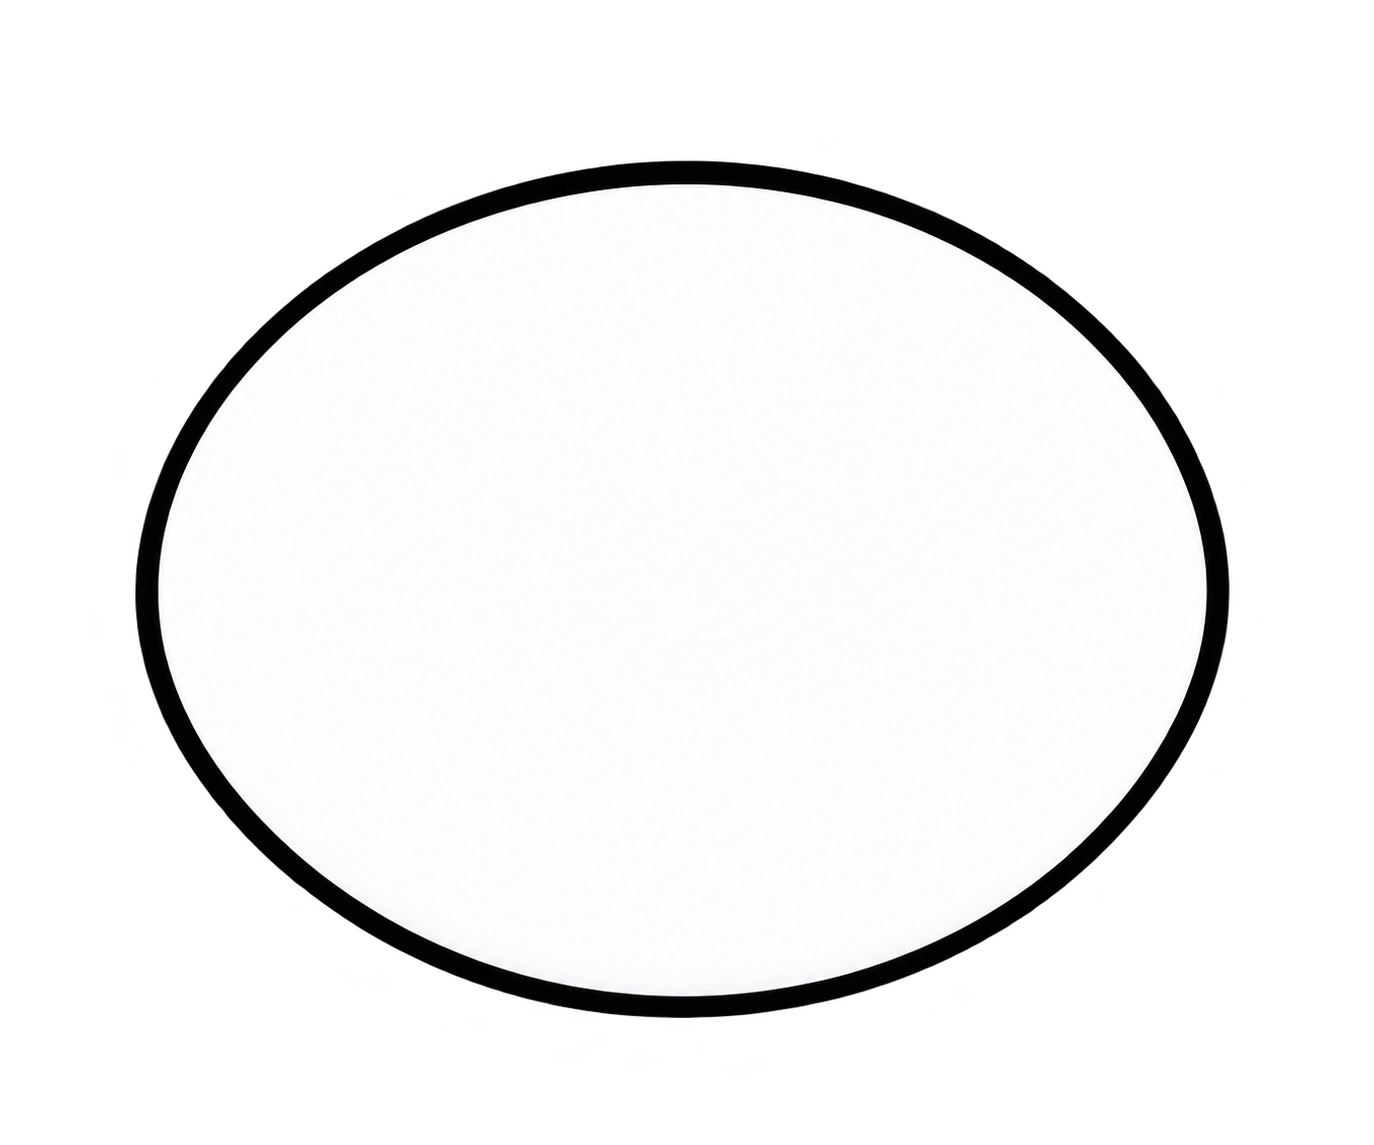
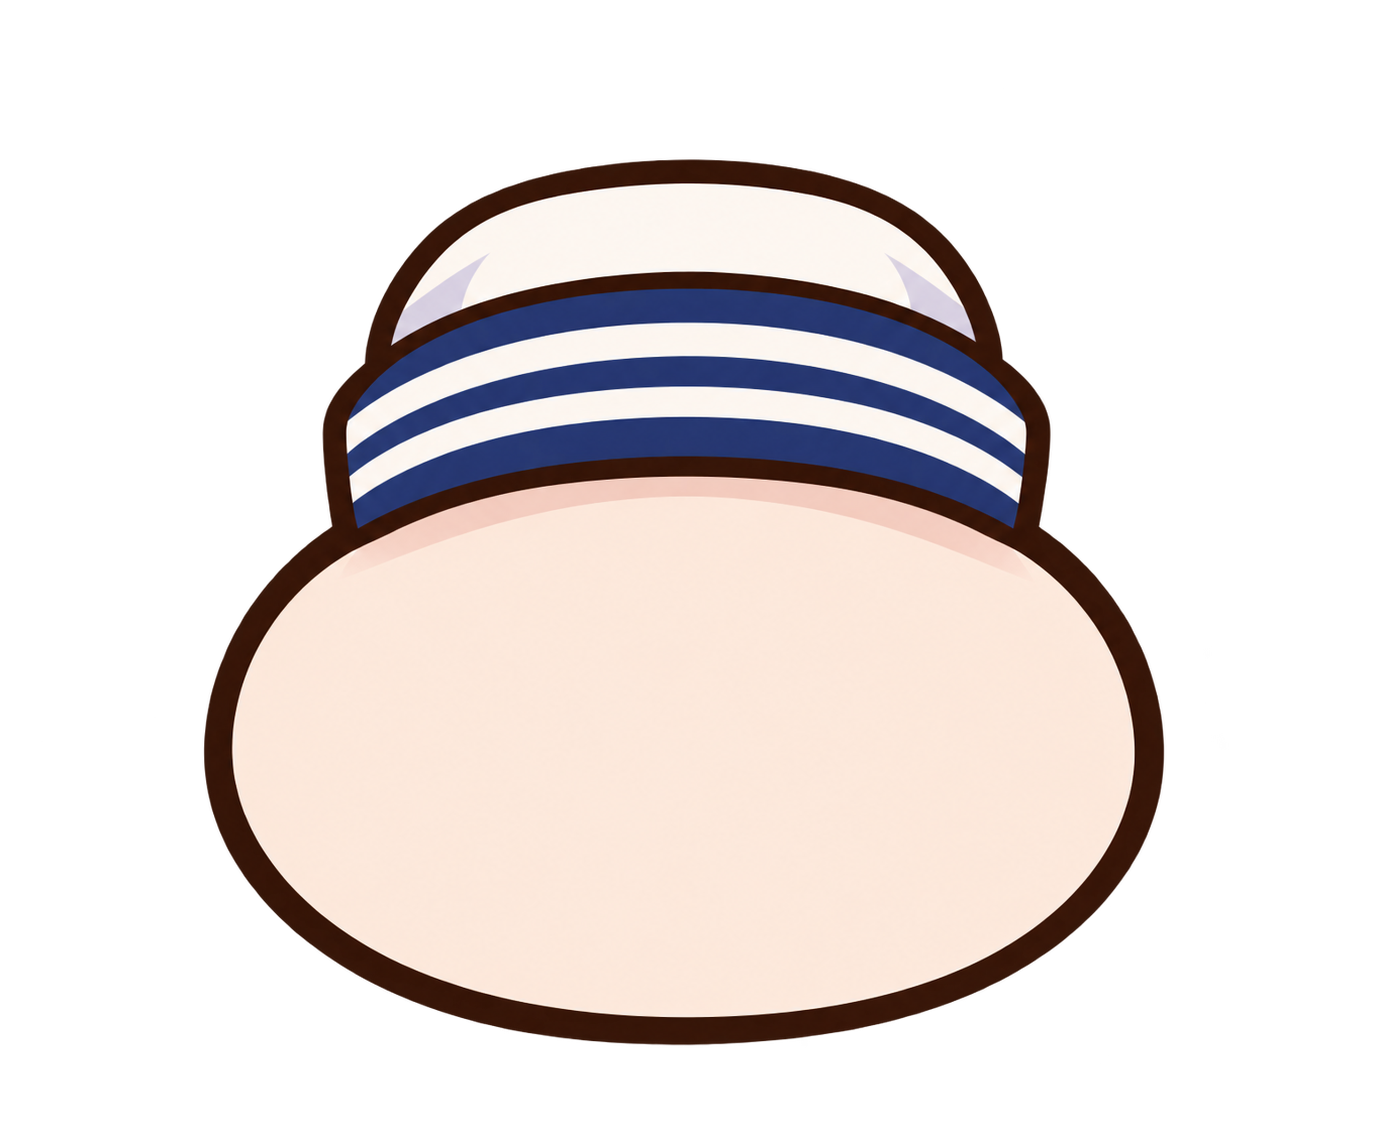
art: add character-specific hand sprites

diff --git a/docs/character-hands.md b/docs/character-hands.md
@@ -1,0 +1,97 @@
+# 角色配套手部
+
+日期：2026-11-03。按用户要求，根据六个角色各自的服装、配色和描线风格制作独立手部。三套换装原先共用的白色椭圆彩手已替换，另外三款新增配套左右手。身体和彩色手部分别保存，原线稿保留。
+
+## 素材
+
+| 角色及身体参考 | 手部设计 | 独立文件 |
+| --- | --- | --- |
+| [基础女仆鱼](../assets/concepts/fish-maid-colored.png) | 奶油肤色圆手、白色扇贝荷叶边、青蓝束带和短蓝袖布，粗深棕描边 | [左手](../assets/concepts/fish-maid-left-hand-colored.png)、[右手](../assets/concepts/fish-maid-right-hand-colored.png) |
+| [水手装](../assets/characters/sailor/body-colored.png) | 奶油肤色圆手、海军蓝双白条袖口和短白袖布 | [左手](../assets/characters/sailor/left-hand-colored.png)、[右手](../assets/characters/sailor/right-hand-colored.png) |
+| [睡衣装](../assets/characters/pajamas/body-colored.png) | 奶油肤色圆手、淡紫蓝宽竖条纹袖口和象牙白镶边 | [左手](../assets/characters/pajamas/left-hand-colored.png)、[右手](../assets/characters/pajamas/right-hand-colored.png) |
+| [魔法师装](../assets/characters/wizard/body-colored.png) | 奶油肤色圆手、靛蓝袖口、暖金边和金星 | [左手](../assets/characters/wizard/left-hand-colored.png)、[右手](../assets/characters/wizard/right-hand-colored.png) |
+| [长发蓝女仆](../assets/concepts/blue-maid-prone-colored.png) | 浅桃肤色圆手、海军蓝袖口、白色蕾丝、细金线和青蓝蝴蝶结，描线更细 | [左手](../assets/concepts/blue-maid-prone-left-hand-colored.png)、[右手](../assets/concepts/blue-maid-prone-right-hand-colored.png) |
+| [橙发礼服少女](../assets/concepts/orange-bride-prone-colored.png) | 象牙白手套、蕾丝袖口、暖金边、琥珀饰件和珍珠，匹配礼服的精细描线 | [左手](../assets/concepts/orange-bride-prone-left-hand-colored.png)、[右手](../assets/concepts/orange-bride-prone-right-hand-colored.png) |
+
+每款均为正面、基本对称的圆润手形，短袖口位于后方，没有具体手指、拇指或长手臂。一个款式的最终图片原样复制为左右两份，共十二个 PNG 文件；六个款式各不相同。未将手拼回身体，也没有键盘、道具或场景。
+
+## 生成与检查
+
+六款均使用内置 imagegen，各一次生成成功。以各自角色身体为服饰与配色参考，以原椭圆手形为圆润轮廓参考。没有使用 CLI/API、程序绘图、镜像或像素修改。
+
+十二张图片均为 1374 × 1145、8 位 RGBA PNG。已逐款检查外观，核验 PNG 数据完整性、透明通道、四角透明和复制一致性。各款左右文件具有相同 SHA-256，六款之间的 SHA-256 均不同。生成输出中接近不透明的 alpha 253 或 254 保留原样。
+
+本轮只修改彩色手部素材及文档，身体和原线稿未改，未修改 Rust 源码或内置角色登记，因此未重跑 Rust 测试。原角色与参考素材的来源说明见[角色上色记录](colored-characters.md)，此记录不改变素材许可。
+
+## 实际提示词
+
+### 基础女仆鱼
+
+```text
+Use case: precise-object-edit.
+Asset: one standalone colored cartoon hand sprite, separate from the character body.
+Image 1 is the edit target and a simple shape reference: a single bold horizontal oval hand outline. Image 2 is ONLY the character costume, palette and line-style reference for the short-haired blue fish maid. Do not reproduce any head, face, hair, fish tail or body from Image 2.
+Turn the generic oval into the short-haired fish maid's own hand. Keep the palm a smooth, softly rounded horizontal warm-cream oval, with no fingers, thumb, creases or palm markings. Attach only a compact maid cuff behind its upper edge. The cuff has clean white rounded scalloped ruffles, a narrow bright cyan-blue binding band, and at most a small short periwinkle-blue piece of sleeve fabric. Match Image 2's white maid frills, cyan bow colors and warm dark-brown thick rounded outlines. The identifiable design is WHITE SCALLOPED CUFF plus CYAN BAND; do not use a deep-navy cuff with gold trim.
+Show the front-facing rounded palm low in the composition, with the small cuff at the upper rear, naturally joined as one hand-and-cuff sprite. The overall design is bilaterally symmetric so the same artwork can be used as either hand. Keep the cuff short and clear, not a long sleeve or forearm. Use simple clean cartoon fills, restrained cel shading and a few very soft highlights. Preserve the warm cream hand as a filled solid shape, not a hole or empty oval.
+Exactly one isolated hand including its short cuff, centered and occupying about 75 percent of the frame with clear margins. Prefer a 1374 by 1145 landscape canvas. Keep all parts visible. Genuine transparent alpha everywhere outside the hand and cuff. No opaque backdrop, checkerboard, white background, floor line, external cast shadow or glow. No second hand, atlas, body, face, character, arm, props, keyboard, desk, text, label, watermark or border.
+```
+
+### 水手装
+
+```text
+Use case: precise-object-edit.
+Image 1 is the EDIT TARGET: the existing simple white oval hand sprite. Image 2 is a COSTUME, COLOR AND LINE-STYLE REFERENCE ONLY: the blue-haired chibi sailor fish. Do not include any part of her body, head, face, hair, hat or tail in the output.
+Replace the generic oval with one distinctive matching sailor hand sprite. Keep a compact, soft, horizontally rounded chibi hand/palm shape facing the viewer, with no visible fingers or thumb. Change the hand to the character's warm pale cream skin tone. Behind the top of this rounded hand, attach only a very short sailor sleeve: a clear deep-navy cuff with TWO ivory-white horizontal stripes, and a small amount of ivory-white sleeve fabric above it. The navy cuff and its two white stripes must be easily readable at small size. This should clearly match Image 2's navy-and-white sailor costume, instead of remaining a plain white oval.
+The whole single hand and short cuff are front-facing and approximately left-right symmetrical, so this one design can serve as either hand. The palm is in the lower foreground; the short cuff is behind its upper edge. Keep the palm broad and rounded. No long arm, exposed wrist, separate fingers, thumb bump, finger creases, nails, palm lines, icons, face marks, jewelry, bow, objects or extra hands.
+Match the reference's bold smooth dark-brown rounded contours, clean flat anime/cartoon fills, restrained cel shading and modest highlights. Skin is warm pale cream with a very soft warm shadow near the cuff; the cuff is deep navy with two white stripes; the short sleeve is ivory. Do not make the hand realistic, glossy plastic, or a 3D render.
+Output exactly ONE standalone colored hand-and-short-cuff PNG, not an atlas or a pair. Use the existing 1374 by 1145 canvas proportions where possible. Center the complete sprite at about 75 percent of the canvas with comfortable transparent safety margins on every side. Fill the sprite interiors with color. Everything outside the outline must be truly transparent alpha, with no backdrop, checkerboard, haze, glow, ground, cast shadow, keyboard, desk, text, label, watermark or border. Do not crop the cuff or hand.
+```
+
+### 睡衣装
+
+```text
+Use case: precise-object-edit.
+Image 1 is the EDIT TARGET: a separate simple oval cartoon hand sprite. Image 2 is ONLY the costume, color and line-style reference: the blue-haired fish girl in pale lavender-blue striped pajamas. Create one matching custom pajama hand from Image 1. Do not include or redraw the character from Image 2.
+
+The hand is a small horizontal, smooth, rounded warm-cream palm shape facing the viewer, without fingers, a separate thumb, nails or palm creases. It keeps the cute rounded hand silhouette rather than becoming a realistic fist. Immediately behind the top of the palm, attach a VERY SHORT soft pajama sleeve cuff. The cuff has alternating broad pale-lavender-blue and slightly deeper lavender-blue vertical stripes, with a narrow soft ivory trim around the wrist opening, matching the pajamas in Image 2. The little cuff must be clearly visible as clothing and make this asset distinct from the plain white generic oval. The sleeve is behind and above the palm, not a second detached oval. Keep the entire silhouette approximately left-right symmetric so this one asset can be used for either hand.
+
+Use the same bold smooth dark-brown outlines and clean simple cartoon fills as the reference body. Use restrained cel shading and very small soft highlights. The palm has warm cream skin matching the character's face; the sleeve is pale lavender-blue striped fabric with ivory trim. No pattern on the palm, no icons, no pillow, no sleep cap, no stars, no face, no body and no long arm.
+
+Show exactly ONE isolated hand with its short sleeve cuff, centered at about 75 percent of the original 1374 by 1145 canvas with clear transparent safety margins. Keep the whole contour inside the frame. The enclosed palm and fabric regions must be filled with color. Everything outside the contour must be genuinely transparent alpha. No white backdrop, checkerboard pattern, floor, cast shadow, glow, halo, text, watermark, label, border, keyboard, desk, extra object, duplicate hand or sprite atlas.
+```
+
+### 魔法师装
+
+```text
+Use case: precise-object-edit.
+Asset type: one isolated transparent hand sprite for the wizard-costumed blue fish girl.
+Image 1 is the EDIT TARGET and the starting rounded hand shape. Image 2 is ONLY the clothing, color and drawing-style reference. Do not draw the character from Image 2.
+Replace the generic white oval in Image 1 with one character-specific chibi hand: a smooth plump horizontal rounded palm in warm pale cream skin color, connected to a very short deep-indigo wizard sleeve cuff behind its upper edge. The hand faces the viewer. Make the short cuff slightly flared, with one narrow warm golden-yellow border and one small golden star centered on its visible fabric, matching the existing wizard hat and cape in Image 2. The cuff is a short fabric sleeve tube, never a hat: no pointed tip, hat brim or long arm. The entire silhouette should be compact and approximately bilateral-symmetric so the same single image can be used on either side.
+Keep the palm simple and unmarked, with no separate fingers, thumb, knuckles, palm lines, wrist or realistic anatomy. The clothing cuff must clearly distinguish this sprite from the original generic white oval, but it remains smaller than the plump palm. Use the same bold rounded dark-brown contour and clean simple cel shading as the body reference, with restrained blue-violet fabric shadows and gentle warm skin shading. Preserve the cute broad rounded hand language.
+Show exactly ONE complete isolated hand with its short sleeve cuff, centered on a preferably 1374 by 1145 transparent canvas, occupying about 75 percent of the canvas with clear margin on every side. All material interiors are colored; everything outside the silhouette is genuinely transparent alpha. Do not flatten onto a white or checkerboard background.
+No second hand, paired sprites, atlas, face, eyes, mouth, hair, fish body, tail, long forearm, full sleeve, wand, book, flame, extra ornaments, desk, keyboard, background, floor line, cast shadow, outer glow, halo, text, label, border or watermark.
+```
+
+### 长发蓝女仆
+
+```text
+Use case: stylized-concept.
+Create one standalone colored HAND sprite that belongs to the long-haired blue fish maid in reference Image 1.
+Image 1 is the only reference for character style, costume and palette: refined chibi anime linework, warm fair skin, dark navy maid dress, white ruffled lace and restrained gold trim. Image 2 is only a silhouette guide for a simple smoothly rounded horizontal oval hand. Do not reproduce the character's body or face.
+Draw a single small, warm peach-cream rounded hand mound facing the viewer, with a smooth horizontal oval silhouette and no individual fingers, thumb, knuckles or palm creases. Behind its upper edge, attach only a very short dark navy-blue maid sleeve cuff. The cuff has a neat white frilled lace edge and narrow warm gold piping, echoing the dress in Image 1. Keep the sleeve short and compact, with a little fabric depth. A tiny blue bow centered on the cuff is allowed, but it must remain subtle and smaller than the hand. Keep the design bilaterally balanced so exactly the same sprite can serve the left or right animated hand.
+Use clean refined chibi anime outlines matching Image 1, slightly finer than a generic thick-line cartoon. Fill the hand with warm pale peach-cream skin, the short sleeve with deep navy, and the ruffled cuff with white and a little cool pale lavender shadow. Use small restrained gold lines on the cuff, gentle cel shading and modest highlights. Preserve a readable, rounded and simple hand silhouette, with the small lace cuff providing the character-specific detail.
+Show exactly one complete detached hand with its short cuff, centered and occupying about 75 percent of a 1374 by 1145 canvas with a clear safety margin. This is a usable individual PNG sprite, not an atlas, a pair of hands, a glove display, a long arm, or a full character. All material regions are filled with color; everything outside the silhouette and any true open gaps is genuinely transparent alpha.
+No body, face, hair, fish tail, extra limbs, rice, bowl, spoon, food, utensils, keyboard, desk, floor, background, cast shadow, outer glow, white backdrop, checkerboard pattern, text, label, border or watermark.
+```
+
+### 橙发礼服少女
+
+```text
+Use case: stylized-concept.
+Asset type: one isolated hand sprite for the supplied orange-haired bridal chibi character, with a genuinely transparent background.
+Image 1 is the sole COSTUME, COLOR and DRAWING-STYLE reference. Use its ivory bridal fabric, delicate lace, warm gold trim, amber jewels and refined brown anime outlines. Do not reproduce the girl, her face, hair, body, skirt or veil. Image 2 is ONLY a SHAPE reference for a smooth rounded horizontal chibi hand mass; do not borrow any other costume.
+Create exactly ONE small front-facing chibi hand wearing an ivory-white glove. The palm is softly rounded and slightly narrower than a plain broad oval, with a smooth mitten-like silhouette but no separate thumb, fingers, knuckles, nails, finger lines or exposed skin. It should remain an abstract rounded hand suitable for a tiny typing companion, not a realistic anatomical glove.
+Behind its upper edge, attach a very short compact ivory lace dress cuff. Use delicate scalloped white lace, fine warm-gold edging, and one small amber diamond-shaped jewel in a gold setting at the cuff center, with at most two tiny pearl details. A narrow charcoal-dark band behind the lace may provide a restrained accent consistent with the reference corset. The dominant palette is ivory-white and warm gold, never blue. Keep the cuff much smaller than the hand, and do not turn it into a large flower, crown, necklace, sleeve or full arm.
+Match Image 1's clean, refined warm-brown anime linework and gentle cel shading. Keep the glove surface mostly plain ivory, with subtle warm-gray folds only at the cuff connection. Use a nearly symmetrical front view so the same sprite can serve as either hand. This is one hand plus a short cuff only, not a pair and not an atlas.
+Center the full sprite with clear safe margins, occupying about 75 percent of a 1374 by 1145 canvas. Fill the glove and fabric interiors with color. Everything outside the isolated hand and the natural lace gaps must remain true transparent alpha. No body, face, head, hair, long arm, extra hand, prop, keyboard, desk, floor line, ground shadow, glow, halo, scene, opaque backdrop, checkerboard pattern, text, label, watermark or border.
+```

diff --git a/docs/colored-characters.md b/docs/colored-characters.md
@@ -1,8 +1,8 @@
 # 角色上色记录
 
-日期：2026-11-03，Asia/Singapore。用户要求将现有线稿全部上色，包括六张角色身体和三套换装共用的椭圆手形。彩色版本使用 `-colored.png` 后缀，原线稿保留。
+日期：2026-11-03，Asia/Singapore。首次上色包括六张角色身体和三套换装共用的椭圆手形。随后按用户要求，为六个角色各自制作配套手部，替换三套换装的通用彩手，并补齐另外三款的左右手。彩色版本使用 `-colored.png` 后缀，原线稿保留。
 
-本轮只使用内置 imagegen。每次以上一轮线稿为造型依据，配色参考只决定颜色，不恢复参考图中的坐姿、食物、双手或场景。身体与手分别保存为独立 PNG，没有键盘。
+首次上色只使用内置 imagegen。每次以上一轮线稿为造型依据，配色参考只决定颜色，不恢复参考图中的坐姿、食物、双手或场景。身体与手分别保存为独立 PNG，没有键盘。
 
 ## 文件与配色
 
@@ -15,25 +15,28 @@
 | 长发蓝女仆 | [blue-maid-prone-colored.png](../assets/concepts/blue-maid-prone-colored.png) | 按用户附件采用深蓝到亮蓝的长发、深蓝女仆服、白围裙与荷叶边、青蓝蝴蝶结 |
 | 橙发礼服少女 | [orange-bride-prone-colored.png](../assets/concepts/orange-bride-prone-colored.png) | 按用户附件采用铜橙长发、象牙白礼服和头纱、深色束腰、暖金花饰与琥珀色眼睛 |
 
-通用手形保持横向椭圆、深色轮廓和白色填充，只有少量浅冷灰阴影。一个生成结果原样复制为三套装扮的左右手，因此六张手部文件一致。
+当前手部按各角色的服装区分袖口、肤色或手套颜色，以及描线细节。每款使用一张对称手形，原样复制为左右两个独立文件；六款造型各不相同。配色说明、验证结果和实际提示词见[角色配套手部](character-hands.md)。
 
 | 装扮 | 左手 | 右手 |
 | --- | --- | --- |
 | 水手 | [left-hand-colored.png](../assets/characters/sailor/left-hand-colored.png) | [right-hand-colored.png](../assets/characters/sailor/right-hand-colored.png) |
 | 睡衣 | [left-hand-colored.png](../assets/characters/pajamas/left-hand-colored.png) | [right-hand-colored.png](../assets/characters/pajamas/right-hand-colored.png) |
 | 魔法师 | [left-hand-colored.png](../assets/characters/wizard/left-hand-colored.png) | [right-hand-colored.png](../assets/characters/wizard/right-hand-colored.png) |
+| 基础女仆鱼 | [fish-maid-left-hand-colored.png](../assets/concepts/fish-maid-left-hand-colored.png) | [fish-maid-right-hand-colored.png](../assets/concepts/fish-maid-right-hand-colored.png) |
+| 长发蓝女仆 | [blue-maid-prone-left-hand-colored.png](../assets/concepts/blue-maid-prone-left-hand-colored.png) | [blue-maid-prone-right-hand-colored.png](../assets/concepts/blue-maid-prone-right-hand-colored.png) |
+| 橙发礼服少女 | [orange-bride-prone-left-hand-colored.png](../assets/concepts/orange-bride-prone-left-hand-colored.png) | [orange-bride-prone-right-hand-colored.png](../assets/concepts/orange-bride-prone-right-hand-colored.png) |
 
 ## 来源与使用范围
 
-基础鱼娘及换装的蓝白配色参考用户指定的上游 `body.png`，来源记录见[大肥鱼线稿与提示词](image-generation.md)。手形来自此前已确认的独立椭圆线稿。
+基础鱼娘及换装的蓝白配色参考用户指定的上游 `body.png`，来源记录见[大肥鱼线稿与提示词](image-generation.md)。手部在此前独立椭圆手形的基础上，按各自身体的配色与服装细节重新生成。
 
 两张附件角色分别参考 `ba63bd6cb0f40d4a8d1491ffd1e90a5e.png` 和 `6c064d0b389f8c352f501a89fe4bd825.png` 的颜色，原附件没有复制进仓库。线稿提示词见[趴窝角色记录](prone-lineart-drafts.md)。
 
 这些文件是角色素材，本轮没有改动 Rust 源码或内置角色登记。生成记录不改变原始角色和参考图片的许可。
 
-## 检查
+## 首轮上色检查
 
-六张身体和一个通用手形共进行九次内置生成或定向编辑。蓝发女仆上色后恢复了原线稿的小闭口笑；水手版进行了一次透明通道清理。所有输出只做原样复制，没有使用程序修改像素。
+首轮六张身体和一个通用手形共进行九次内置生成或定向编辑。蓝发女仆上色后恢复了原线稿的小闭口笑；水手版进行了一次透明通道清理。所有输出只做原样复制，没有使用程序修改像素。后续六款手部的生成与检查另见[配套手部记录](character-hands.md)。
 
 | 素材 | 像素尺寸 |
 | --- | --- |
@@ -43,15 +46,15 @@
 | 魔法师装 | 1613 × 975 |
 | 长发蓝女仆 | 1721 × 914 |
 | 橙发礼服少女 | 1774 × 887 |
-| 通用手形 | 1374 × 1145 |
+| 初版通用手形，彩色版已替换 | 1374 × 1145 |
 
-所有彩稿均为 8 位 RGBA PNG。逐一检查了完整造型、填色区域、身体无手以及透明背景，并只读核验尺寸、透明通道和文件复制一致性。三套左右手的六份文件具有相同 SHA-256。原线稿均未修改。基础鱼娘彩稿比线稿窄 1 像素，其余输出保持原画布尺寸。
+首轮所有彩稿均为 8 位 RGBA PNG。逐一检查了完整造型、填色区域、身体无手以及透明背景，并只读核验尺寸、透明通道和文件复制一致性。首轮通用手的六份副本当时具有相同 SHA-256，现已替换为各款独立设计。原线稿均未修改。基础鱼娘彩稿比线稿窄 1 像素，其余输出保持原画布尺寸。
 
 部分内置输出的实色区 alpha 为 253 或 254，属于接近不透明的生成结果。工具缩略图曾显示水手版透明像素中隐藏的棕色 RGB；在 macOS 预览中检查最终 PNG，轮廓外没有可见光晕。
 
 本轮只增加图片和更新文档，未修改 Rust 源码，因此未重跑 Rust 测试。检查范围为素材和文档，不代表验证了程序运行时的角色装配。
 
-## 实际上色提示词
+## 首轮实际上色提示词
 
 六张身体首次上色均以对应线稿作为图 1。基础鱼娘及换装以原始 `body.png` 作为图 2；两张附件角色以各自原图作为图 2。后续修正以各自的彩稿为编辑目标。手部只使用一张已确认的椭圆线稿。
 
@@ -132,7 +135,7 @@ The approved Image 1 must remain a fully clothed human chibi resting flat on her
 Fill the character's material regions with color, while preserving genuine transparent alpha outside her silhouette and in true gaps between hair strands, lace and clothing. Keep the entire character visible with the existing transparent safety margin. No white or colored background, checkerboard pattern, ground, cast shadow outside the character, buildings, people, cursor, keyboard, desk, text, labels, border, watermark or extra objects. Exactly one separate colored BODY PNG.
 ```
 
-### 通用独立手形
+### 通用独立手形，历史版本
 
 ```text
 Use case: precise-object-edit.
